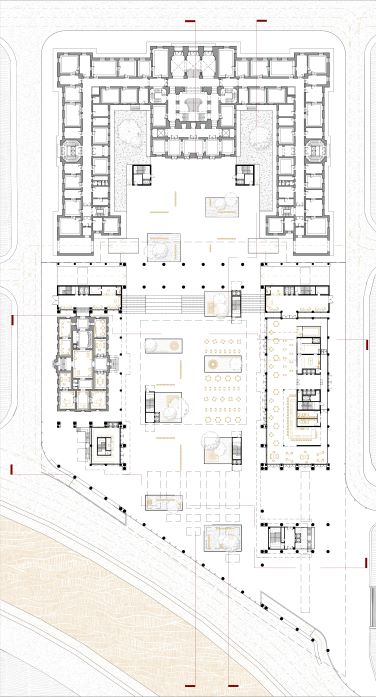
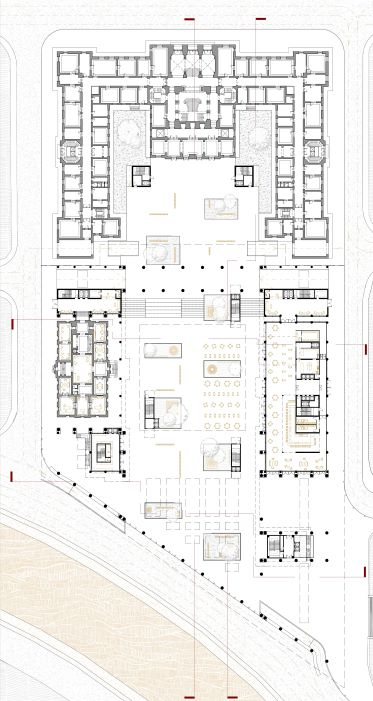
Pagina Acasa gata, responsive design

diff --git a/style-each/style-index.css b/style-each/style-index.css
@@ -32,8 +32,7 @@
   z-index: 1;
   margin: 0 auto;
   text-align: center;
-  max-width: 54rem;
-  width: 74vw;
+  width: 100vw;
 }
 .banner .title h1 {
   font-family: "modern";
@@ -75,10 +74,13 @@
   display: flex;
   align-items: center;
   flex-direction: column;
+  justify-content: center;
 }
-.subtitle-box,
 .content-box {
   margin: 1rem;
+}
+.subtitle-box {
+  margin: 0;
 }
 .services-box {
   margin: 2rem auto;
@@ -166,13 +168,11 @@ img.project-plan {
 }
 section.projects-box {
   display: flex;
-  flex-direction: column-reverse;
+  flex-direction: column;
   align-items: center;
 }
+/* Responsive */
 @media (min-width: 489px) {
-  .banner .title {
-    width: 50vw;
-  }
   .banner .title h1 {
     font-size: 4rem;
   }
@@ -211,21 +211,18 @@ section.projects-box {
     width: 50vw;
     margin: 0rem;
   }
-  section.projects-box {
-    flex-direction: row-reverse;
+  main.content-box {
+    padding: 1.5rem;
+    border-block-end: 0.03rem solid #cccccc;
   }
 }
 @media (min-width: 780px) {
-  .banner .title {
-    width: 45vw;
-  }
   .banner .title h1 {
     font-size: 5rem;
   }
   main.content-box {
     flex-direction: row;
     align-items: flex-start;
-    margin: 2rem;
   }
   div.content {
     width: 30rem;
@@ -235,7 +232,7 @@ section.projects-box {
     font-size: 2rem;
   }
   p.subtext {
-    width: 15rem;
+    width: 25rem;
   }
   p.subtext,
   p.project-text {
@@ -251,4 +248,64 @@ section.projects-box {
   }
 }
 @media (min-width: 1024px) {
+  div.future-subtitle {
+    gap: 10rem;
+  }
+  h2.subtitle,
+  h2.services-subtitle,
+  .subtitle div.brand,
+  h2.content-title {
+    font-size: 2rem;
+  }
+  .project-content {
+    width: 30rem;
+  }
+  main.content-box {
+    gap: 2rem;
+  }
+  section.projects-box {
+    flex-direction: row-reverse;
+    margin-inline: 1rem;
+    padding-inline: 1rem;
+    justify-content: center;
+  }
+  .subtitle-image {
+    width: 55vw;
+    max-width: 30rem;
+  }
+  .sm-icon {
+    width: 3rem;
+  }
+}
+@media (min-width: 2000px) {
+  p.subtext,
+  p.content-text,
+  p.project-text {
+    font-size: 2.5rem;
+  }
+  p.subtext {
+    width: 25rem;
+  }
+
+  h2.content-title {
+    font-size: 3rem;
+    font-weight: 900;
+  }
+  h2.subtitle,
+  h2.services-subtitle,
+  .subtitle div.brand {
+    font-size: 3.5rem;
+  }
+  .btn-services,
+  .btn-projects {
+    font-size: 1.8rem;
+    padding: 1rem;
+    margin: 1rem;
+  }
+  .project-content {
+    width: 50rem;
+  }
+  p.subtext {
+    width: 35rem;
+  }
 }

diff --git a/styleall.css b/styleall.css
@@ -45,16 +45,16 @@ body::-webkit-scrollbar-thumb {
 }
 .logo {
   margin: auto;
-  width: 40vw;
+  width: 30vw;
   max-width: 7rem;
   height: auto;
   filter: drop-shadow(0.07rem 0rem 0.08rem #000);
 }
-/* Menu
+/* Menu */
 .menu * {
   margin: 0;
   padding: 0;
-} */
+}
 .menu-box {
   background: var(--bg-menu-box);
 }
@@ -197,6 +197,30 @@ p.copyright {
   text-align: center;
 }
 @media (min-width: 780px) {
+  .logo-menu {
+    flex-direction: row;
+    justify-content: space-between;
+  }
+  .logo-box {
+    margin-inline: 1rem 0rem;
+    margin-block: 0.5rem;
+  }
+  .logo {
+    width: 7rem;
+    max-width: none;
+  }
+  .menu-box {
+    margin-inline: 0rem 1rem;
+    margin-block: 0.5rem;
+  }
+  .menu > li > .menu-item {
+    margin: 1rem;
+    font-size: 2.2rem;
+  }
+  .sub-menu {
+    width: 10rem;
+    top: 8.2rem;
+  }
   .footer-content {
     flex-direction: row;
     justify-content: space-between;
@@ -218,5 +242,10 @@ p.copyright {
   }
   .logo-footer {
     width: 5rem;
+  }
+}
+@media (min-width: 1024px) {
+  .footer-content {
+    justify-content: space-evenly;
   }
 }

diff --git a/index.html b/index.html
@@ -58,7 +58,7 @@
     <div class="banner">
       <video src="img/video(25MB).mp4" muted loop autoplay></video>
       <div class="title">
-        <h1>Forma urmează funcția.</h1>
+        <h1>Forma urmează funcțiunea.</h1>
       </div>
       <div class="social-media">
         <a href="#">
@@ -131,6 +131,11 @@
       </div>
     </main>
     <section class="projects-box">
+      <img
+        src="img/plan2.jpg"
+        alt="Plan Proiect CulturAll"
+        class="project-plan"
+      />
       <div class="project-content">
         <p class="project-text">
           Un proiect de calitate de arhitectură reprezintă un plus în timp
